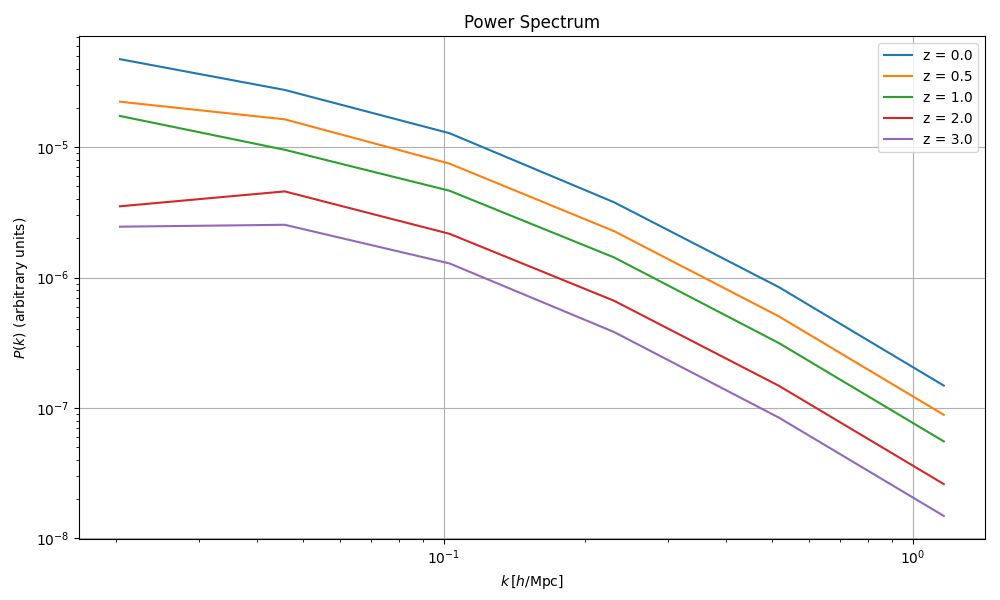
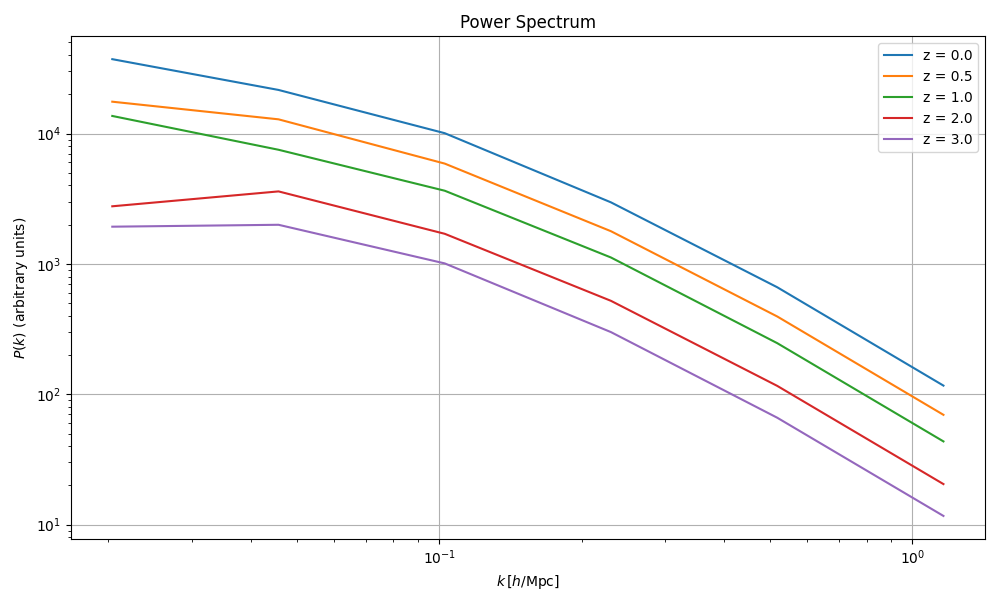
Rescaled Gaussian and galaxy field power spectra

diff --git a/src/field_power_spectrum.py b/src/field_power_spectrum.py
@@ -14,11 +14,13 @@ def extract_redshift(filename):
         return None
 
 def compute_power_spectrum(field, box_size):
-    field_k = np.fft.fftn(field, norm="forward")    # real space to Fourier space: δ(k)
-    power = np.abs(field_k)**2  # P(k) = |δ(k)|^2
+    n_grid = field.shape[0] 
+    field_k = np.fft.fftn(field, norm="forward")    # real space to Fourier space: δ(k) 
+    
+    scaling =  (2 * np.pi) * (box_size ** 3)
+    power = np.abs(field_k)**2  * scaling  # P(k) = |δ(k)|^2
 
     # k-grid
-    n_grid = field.shape[0] 
     kf = 2 * np.pi / box_size  #Fundamental mode
     k = np.fft.fftfreq(n_grid, d=1.0 / n_grid) * kf
     kx, ky, kz = np.meshgrid(k, k, k, indexing='ij')
@@ -43,7 +45,7 @@ def compute_power_spectrum(field, box_size):
 
     k_min = k_mag_nonzero.min()
     k_max = np.pi * n_grid / box_size  # Nyquist frequency
-    k_bins = np.logspace(np.log10(k_min), np.log10(k_max), num=7)
+    k_bins = np.logspace(np.log10(k_min), np.log10(k_max), num=8)
 
 
     # Bin power spectrum by |k| to get P(k)
